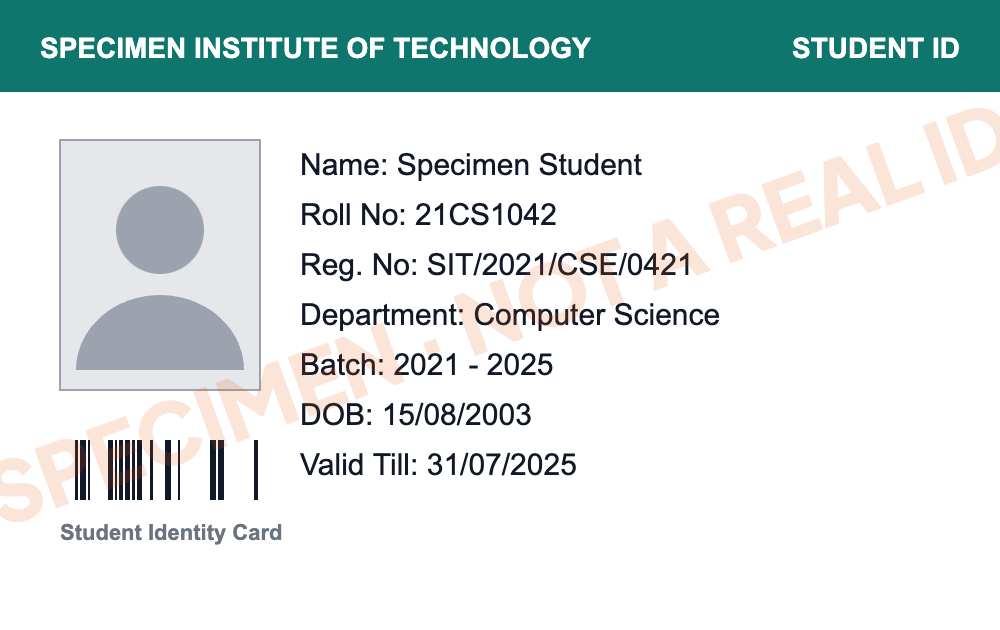
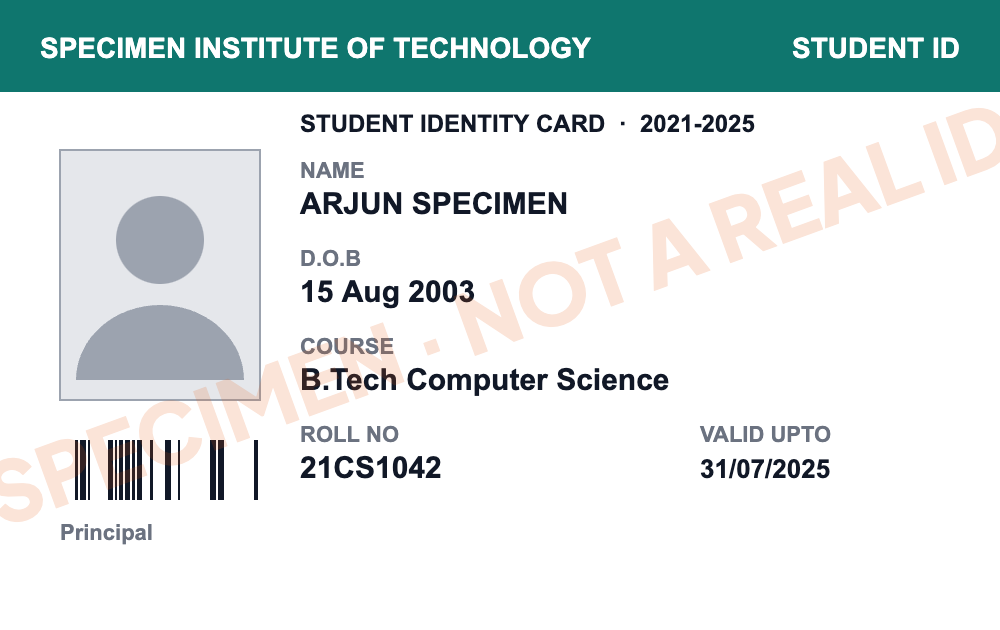
fix: student ID (and other card) detection on real cards — name, date of birth, photo, roll, course
Real student IDs print labels above values under an institution header, use
dates like "15 Aug 2003", and carry a portrait with no label. The classifier
now handles that:
- dates with month names count as dates of birth; validity/issue dates whose
  label is on the line above are never taken as DOB;
- institution/document boilerplate is never a person's name; a name printed
  without a label is taken from the letters-only line above the DOB;
- label-above-value lookup anchors on the label's own column, skips speckle
  and punctuation-only lines, and stops at the first wide gap; short or
  low-confidence same-line specks ("NAME Coe") defer to the line below;
  label words in a neighbouring column ("VALID UPTO") are not values;
- fused OCR labels ("UROLLNO") still match the roll-number label;
- a portrait region is inferred for PAN, college and generic ID cards from the
  empty column left of the text block; the manual photo/QR buttons are
  available for all card types.

The college specimen now mirrors a real card (labels above values, month-name
DOB, portrait, validity date). Verified for every document type under the
Surya sidecar and under in-browser Tesseract.

diff --git a/src/layers/layer2_ocr/ocrEngine.ts b/src/layers/layer2_ocr/ocrEngine.ts
@@ -801,8 +801,9 @@ function matchLabelValue(line: ExtractedSpatialToken[], labelRe: RegExp): LineMa
   if (!valueToks.length) return null;
   const text = valueToks.map((t) => t.text).join(' ').replace(/^[:\-–—\s.]+/, '').trim();
   if (!text) return null;
-  // "Father's Name" leaves just "Name": that is the rest of the label, not a value.
-  if (/^(?:name|no\.?|number|id|code|date|of)$/i.test(text)) return null;
+  // "Father's Name" leaves just "Name", "ROLL NO VALID UPTO" leaves "VALID UPTO":
+  // label words in the next column are not values.
+  if (RE_LABEL_WORDS.test(text)) return null;
   return { text, tokens: valueToks };
 }
 
@@ -853,6 +854,8 @@ function clusterByGap(line: ExtractedSpatialToken[]): ExtractedSpatialToken[][] 
 const RE_BIRTH_LINE = /\b(?:dob|d\.o\.b|date of birth|year of birth|yob|birth)\b/i;
 const RE_DEVANAGARI = /[\u0900-\u097F]/;
 const RE_AADHAAR_BOILERPLATE = /government of india|unique identification|aadhaar|\bindia\b|proof of identity|citizenship|authority|\bmera\b/i;
+// Institution / document boilerplate that is never a person's name or a field value.
+const RE_CARD_BOILERPLATE = /\b(?:college|institute|institution|university|school|academy|polytechnic|campus|identity\s*card|id\s*card|student\s*(?:id|card)|library|department of|govt|government|income tax|permanent account|signature|valid|issued?)\b/i;
 const RE_NON_BIRTH_DATE = /\b(?:issued?|issue date|date of issue|enrol|enrolment|print|download|valid|expiry|generated|updated)\b|\u091c\u093e\u0930\u0940/i;
 const RE_GENDER_LINE = /\b(?:MALE|FEMALE|TRANSGENDER|Male|Female|Transgender)\b|\u092a\u0941\u0930\u0941\u0937|\u092e\u0939\u093f\u0932\u093e/;
 const RE_GUARDIAN_LINE = /\b(?:S\/O|D\/O|W\/O|C\/O|son of|daughter of|wife of|care of)\b/i;
@@ -885,6 +888,9 @@ function matchPanTolerant(line: ExtractedSpatialToken[]): LineMatch[] {
   return matchInLine(line, RE_PAN_LOOSE).filter((m) => panLike(m.text));
 }
 
+const RE_LABEL_WORDS =
+  /^(?:name|no\.?|number|id|code|date|of|valid(?:\s*(?:upto|up\s*to|till|thru|through))?|issued?(?:\s*on)?|expiry|exp\.?|dob|d\.?o\.?b\.?|date\s*of\s*birth|roll\s*no\.?|course|class|branch|dept\.?|reg\.?\s*no\.?|signature)$/i;
+
 // Card layouts print the label on one line and the value on the next
 // ("Name" / "SPECIMEN PERSON"). When a line is only the label, take the
 // column-aligned cluster of the next line on the same page as the value.
@@ -895,8 +901,15 @@ function valueBelowLabel(
   claimed: Set<string>
 ): LineMatch | null {
   const line = lines[li];
-  const next = lines[li + 1];
-  if (!next || next[0].page !== line[0].page) return null;
+  // The value line is the next line with real content; OCR punctuation specks
+  // ("..", "=") often form their own tiny line between a label and its value.
+  let next: ExtractedSpatialToken[] | undefined;
+  for (let j = li + 1; j < Math.min(lines.length, li + 4); j++) {
+    const cand = lines[j];
+    if (cand[0].page !== line[0].page) break;
+    if (cand.some((t) => /[A-Za-z0-9]/.test(t.text))) { next = cand; break; }
+  }
+  if (!next) return null;
   const lineText = line.map((t) => t.text).join(' ');
   const re = new RegExp(labelRe.source, labelRe.flags.replace('g', ''));
   const m = re.exec(lineText);
@@ -904,16 +917,28 @@ function valueBelowLabel(
   const restRaw = lineText.slice(m.index + m[0].length);
   const rest = restRaw.replace(/[^A-Za-z0-9]/g, '');
   const before = lineText.slice(0, m.index).replace(/[^A-Za-z0-9]/g, '');
-  // More than a label: digits, or more than two extra words ("Father's Name" is fine).
-  if (/\d/.test(restRaw) || rest.length > 16 || restRaw.trim().split(/\s+/).filter(Boolean).length > 2 || before.length > 12) return null;
-  const x0 = Math.min(...line.map((t) => t.x));
+  // More than a label: digits, or more than two extra real words ("Father's Name" is fine;
+  // OCR punctuation such as "=. =, .." is not a word).
+  const restWords = restRaw.trim().split(/\s+/).filter((w) => /[A-Za-z0-9]/.test(w)).length;
+  if (/\d/.test(restRaw) || rest.length > 16 || restWords > 2 || before.length > 12) return null;
+  // Anchor the column on the label's own tokens, not on speckle elsewhere in the row.
+  const labelToks = matchInLine(line, labelRe)[0]?.tokens ?? line;
+  const x0 = Math.min(...labelToks.map((t) => t.x));
   const y1 = Math.max(...line.map((t) => t.y + t.height));
   const h = Math.max(...line.map((t) => t.height));
   const nextY0 = Math.min(...next.map((t) => t.y));
   if (nextY0 - y1 > h * 2.5) return null;
-  const cluster = clusterByGap(next).find((c) => Math.abs(Math.min(...c.map((t) => t.x)) - x0) <= h * 3);
-  if (!cluster) return null;
-  const toks = cluster.filter((t) => !claimed.has(t.id) && t.text.replace(/[:\-–—.\s]/g, '').length > 0);
+  // The value starts at (or just right of) the label's column and runs until the
+  // first wide gap; speckle or other columns to the left are ignored.
+  const right = [...next].filter((t) => t.x >= x0 - h * 2).sort((a, b) => a.x - b.x);
+  const cluster: ExtractedSpatialToken[] = [];
+  for (const t of right) {
+    const prev = cluster[cluster.length - 1];
+    if (prev && t.x - (prev.x + prev.width) > Math.max(prev.height, t.height, 8) * 2.5) break;
+    cluster.push(t);
+  }
+  if (!cluster.length || cluster[0].x - x0 > h * 6) return null;
+  const toks = cluster.filter((t) => !claimed.has(t.id) && t.text.replace(/[:\-–—.\s=|~,]/g, '').length > 0);
   if (!toks.length) return null;
   const text = toks.map((t) => t.text).join(' ').trim();
   if (!text || re.test(text)) return null; // the next line is another label
@@ -939,21 +964,30 @@ export function classifyForScenario(
   const ageField = fields.find((f) => f.detect.kind === 'age_from_dob');
   const nameAboveField = fields.find((f) => f.detect.kind === 'name_above_dob');
   const photoField = fields.find((f) => f.detect.kind === 'aadhaar_photo_layout');
+  const cardPhotoField = fields.find((f) => f.detect.kind === 'card_photo_layout');
   const otherFields = fields.filter(
-    (f) => !['currency', 'age_from_dob', 'name_above_dob', 'aadhaar_photo_layout'].includes(f.detect.kind)
+    (f) => !['currency', 'age_from_dob', 'name_above_dob', 'aadhaar_photo_layout', 'card_photo_layout'].includes(f.detect.kind)
   );
+  let patternDobLineIdx = -1;
 
   // Pattern + label-anchored fields (identifiers, names, dates, addresses...).
   for (const field of otherFields) {
     for (const line of lines) {
       if (field.detect.kind === 'pattern') {
         // A "date of birth" field must not claim issue / validity / print dates.
-        if (field.key === 'dob' && RE_NON_BIRTH_DATE.test(line.map((t) => t.text).join(' '))) continue;
+        if (field.key === 'dob') {
+          const here = line.map((t) => t.text).join(' ');
+          const prev = lines[lines.indexOf(line) - 1];
+          const above = prev && prev[0].page === line[0].page ? prev.map((t) => t.text).join(' ') : '';
+          // "VALID UPTO" / "ISSUED" on this line, or as a label on the line above (card layouts).
+          if (RE_NON_BIRTH_DATE.test(here) || (RE_NON_BIRTH_DATE.test(above) && !RE_BIRTH_LINE.test(above) && !RE_BIRTH_LINE.test(here))) continue;
+        }
         const exact = matchInLine(line, field.detect.re);
         const matches = field.key === 'pan' && exact.length === 0 ? matchPanTolerant(line) : exact;
         for (const mt of matches) {
           if (isClaimed(mt.tokens)) continue;
           claim(mt.tokens);
+          if (field.key === 'dob' && patternDobLineIdx < 0) patternDobLineIdx = lines.indexOf(line);
           targets.push({
             id: `field_${field.key}_${counter++}`,
             label: field.label,
@@ -973,7 +1007,12 @@ export function classifyForScenario(
         let mv = matchLabelValue(line, field.detect.re);
         // A one- or two-character same-line "value" is speckle next to the label
         // ("Name Lo"); the real value is on the line below on card layouts.
-        if (!mv || mv.text.replace(/[^A-Za-z0-9]/g, '').length <= 2) mv = valueBelowLabel(lines, li, field.detect.re, claimed) ?? (mv && mv.text.replace(/[^A-Za-z0-9]/g, '').length > 2 ? mv : null);
+        // Short or low-confidence same-line "values" are speckle next to the label
+        // ("Name Lo", "NAME Coe"); on card layouts the real value is the line below.
+        const weak = !!mv && (mv.text.replace(/[^A-Za-z0-9]/g, '').length <= 3 || tokenConfidence(mv.tokens) < 45);
+        if (!mv || weak) mv = valueBelowLabel(lines, li, field.detect.re, claimed) ?? (mv && !weak ? mv : mv && mv.text.replace(/[^A-Za-z0-9]/g, '').length > 3 ? mv : null);
+        // A person-name field never takes institution/document boilerplate as its value.
+        if (mv && ['name', 'father', 'guardian'].includes(field.key) && RE_CARD_BOILERPLATE.test(mv.text)) mv = null;
         if (mv && !isClaimed(mv.tokens)) {
           claim(mv.tokens);
           targets.push({
@@ -1044,13 +1083,14 @@ export function classifyForScenario(
   // birth-labelled line, else the gender line (never depends on a correct DOB).
   const genderLineIdx = lines.findIndex((l) => RE_GENDER_LINE.test(l.map((t) => t.text).join(' ')));
   const birthLabelIdx = lines.findIndex((l) => RE_BIRTH_LINE.test(l.map((t) => t.text).join(' ')));
-  const anchorIdx = dobLineIdx >= 0 ? dobLineIdx : birthLabelIdx >= 0 ? birthLabelIdx : genderLineIdx;
+  const anchorIdx = dobLineIdx >= 0 ? dobLineIdx : patternDobLineIdx >= 0 ? patternDobLineIdx : birthLabelIdx >= 0 ? birthLabelIdx : genderLineIdx;
+  const nameAlreadyFound = targets.some((t) => t.fieldKey === 'name');
 
   // Name: on Aadhaar the (Latin-script) name sits directly above the DOB line,
   // left-aligned in the same column. Require column alignment + real letters so
   // OCR speckle elsewhere on the card can never be mistaken for a name.
   let nameLineIdx = -1;
-  if (nameAboveField && anchorIdx > 0) {
+  if (nameAboveField && anchorIdx > 0 && !nameAlreadyFound) {
     const anchorLine = lines[anchorIdx];
     const dobX0 = Math.min(...anchorLine.map((t) => t.x));
     const dobH = Math.max(...anchorLine.map((t) => t.height));
@@ -1058,8 +1098,9 @@ export function classifyForScenario(
     for (let li = anchorIdx - 1; li >= Math.max(0, anchorIdx - 4); li--) {
       const line = lines[li];
       const lineText = line.map((t) => t.text).join(' ').trim();
-      if (!lineText || RE_DEVANAGARI.test(lineText) || RE_AADHAAR_BOILERPLATE.test(lineText)) continue;
+      if (!lineText || RE_DEVANAGARI.test(lineText) || RE_AADHAAR_BOILERPLATE.test(lineText) || RE_CARD_BOILERPLATE.test(lineText)) continue;
       if (RE_GUARDIAN_LINE.test(lineText)) continue; // "S/O …" is the guardian, not the holder
+      if (/\b(?:name|d\.?o\.?b|birth|roll|course|class|branch|reg)\b/i.test(lineText) && lineText.replace(/[^A-Za-z]/g, '').length <= 12) continue; // a bare label
       const letters = lineText.replace(/[^A-Za-z]/g, '');
       if (letters.length < 3 || letters.length / lineText.replace(/\s/g, '').length < 0.8) continue;
       // Only the cluster that shares the DOB column is the name; anything to the
@@ -1125,6 +1166,45 @@ export function classifyForScenario(
           source: 'OCR_AUTO',
           fieldKey: photoField.key,
         });
+      }
+    }
+  }
+
+  // Generic ID cards: the portrait sits in the empty column left of the text
+  // block. Only inferred when the text block starts well inside the page.
+  if (cardPhotoField && !targets.some((t) => t.fieldKey === 'photo')) {
+    const pageTargets = targets.filter((t) => t.page === (targets[0]?.page ?? 1) && t.action !== 'DETECT_ONLY');
+    if (pageTargets.length >= 2) {
+      const pageW = Math.max(...tokens.map((t) => t.x + t.width));
+      const pageH = Math.max(...tokens.map((t) => t.y + t.height));
+      const colX0 = Math.min(...pageTargets.map((t) => t.x));
+      const top = Math.min(...pageTargets.map((t) => t.y));
+      const bottom = Math.max(...pageTargets.map((t) => t.y + t.height));
+      const lineH = Math.max(12, Math.min(...pageTargets.map((t) => t.height)));
+      const leftTokens = tokens.filter(
+        (t) => t.page === pageTargets[0].page && t.x + t.width < colX0 - lineH && t.y > top - lineH * 2 && t.y < top + (bottom - top) * 0.6 && t.text.replace(/[^A-Za-z]/g, '').length >= 3
+      );
+      if (colX0 > pageW * 0.22 && leftTokens.length <= 2) {
+        const x0 = Math.max(0, Math.round(lineH * 0.5));
+        const x1 = Math.round(colX0 - lineH * 0.8);
+        const height = Math.min(bottom - top + lineH * 2, pageH - top);
+        const width = x1 - x0;
+        if (width >= lineH * 2.5 && height >= lineH * 3) {
+          targets.push({
+            id: `field_${cardPhotoField.key}_${counter++}`,
+            label: cardPhotoField.label,
+            classification: cardPhotoField.classification,
+            extractedValue: '[image region · inferred from card layout]',
+            x: x0,
+            y: Math.max(0, Math.round(top - lineH)),
+            width: Math.round(Math.min(width, height * 0.9)),
+            height: Math.round(height),
+            page: pageTargets[0].page,
+            action: cardPhotoField.action,
+            source: 'OCR_AUTO',
+            fieldKey: cardPhotoField.key,
+          });
+        }
       }
     }
   }

diff --git a/src/core/scenarios.ts b/src/core/scenarios.ts
@@ -38,7 +38,9 @@ export type FieldDetector =
   // The Latin-script name line directly above the DOB line (Aadhaar card layout).
   | { kind: 'name_above_dob' }
   // Aadhaar portrait region inferred from the demographic-column geometry.
-  | { kind: 'aadhaar_photo_layout' };
+  | { kind: 'aadhaar_photo_layout' }
+  // Generic ID-card portrait: the empty column left of the text block.
+  | { kind: 'card_photo_layout' };
 
 export interface ScenarioField {
   key: string;
@@ -84,6 +86,9 @@ export const RE_PAN = /\b[A-Z]{5}\d{4}[A-Z]\b/;                      // ABCDE123
 export const RE_IFSC = /\b[A-Z]{4}0[A-Z0-9]{6}\b/;                   // HDFC0001234
 export const RE_ACCOUNT = /\b\d{9,18}\b/;                            // bank account no.
 export const RE_DATE = /\b\d{1,2}[\/\-.]\d{1,2}[\/\-.]\d{2,4}\b/;    // 01/02/1990
+// Dates as printed on cards: 01/02/1990, 1-2-1990, 15 Aug 2003, 15-Aug-2003, August 15, 2003
+export const RE_DATE_ANY =
+  /\b\d{1,2}[\/\-.]\d{1,2}[\/\-.]\d{2,4}\b|\b\d{1,2}(?:st|nd|rd|th)?[\s\-.,]+(?:jan|feb|mar|apr|may|jun|jul|aug|sep|sept|oct|nov|dec)[a-z]*[\s\-.,]+\d{2,4}\b|\b(?:jan|feb|mar|apr|may|jun|jul|aug|sep|sept|oct|nov|dec)[a-z]*[\s\-.,]+\d{1,2}(?:st|nd|rd|th)?[\s\-.,]+\d{4}\b/i;
 export const RE_YEAR = /\b(?:19|20)\d{2}\b/;
 export const RE_EMAIL = /\b[A-Za-z0-9._%+-]+@[A-Za-z0-9.-]+\.[A-Za-z]{2,}\b/;
 export const RE_PHONE_IN = /\b(?:\+91[\-\s]?)?[6-9]\d{9}\b/;         // Indian mobile
@@ -97,7 +102,8 @@ export const RE_CURRENCY =
 const L_NAME = /\bname\b/i;
 const L_FATHER = /\bfather'?s?\b/i;
 const L_ADDRESS = /\baddress\b/i;
-const L_ROLL = /\b(?:roll(?:\s*(?:no|number))?|enrol?ment(?:\s*(?:no|number))?)\b/i;
+// No leading boundary: OCR often fuses the label ("UROLLNO", "ROLLNO").
+const L_ROLL = /(?:roll\s*(?:no|number)?|enrol?ment\s*(?:no|number)?)\b/i;
 const L_REG = /\b(?:reg(?:istration)?\.?\s*(?:no|number)?|registration)\b/i;
 const L_DEPT = /\b(?:dept|department|branch|programme|program|course)\b/i;
 const L_BATCH = /\b(?:batch|session|semester|academic year|year of study)\b/i;
@@ -126,7 +132,16 @@ const nameField = (): ScenarioField => ({
 });
 const dobField = (): ScenarioField => ({
   key: 'dob', label: 'Date / Year of Birth', classification: 'Date of Birth (PII)',
-  action: 'DIRECT_BURN', detect: { kind: 'pattern', re: RE_DATE }, priority: 20,
+  action: 'DIRECT_BURN', detect: { kind: 'pattern', re: RE_DATE_ANY }, priority: 20,
+});
+// Name printed without a label (common on student IDs): the letters-only line above the DOB.
+const nameNearDobField = (): ScenarioField => ({
+  key: 'name', label: 'Full Name', classification: 'Personal Name (PII)',
+  action: 'DIRECT_BURN', detect: { kind: 'name_above_dob' }, priority: 31,
+});
+const cardPhotoField = (): ScenarioField => ({
+  key: 'photo', label: 'Photo (face)', classification: 'Portrait Region (layout-inferred)',
+  action: 'DIRECT_BURN', detect: { kind: 'card_photo_layout' }, priority: 60,
 });
 const addressField = (): ScenarioField => ({
   key: 'address', label: 'Address', classification: 'Residential Address (PII)',
@@ -174,6 +189,7 @@ export const SCENARIOS: DocumentScenario[] = [
       nameField(),
       { key: 'father', label: "Father's Name", classification: 'Parent Name (PII)', action: 'DIRECT_BURN', detect: { kind: 'label', re: L_FATHER }, priority: 25 },
       dobField(),
+      cardPhotoField(),
     ],
     defaults: { requesterName: 'KYC Verification Desk', purpose: 'PAN-based identity KYC (privacy-preserving)', predicate: PREDICATE_SEAL_ONLY, thresholdValue: 0, unit: '' },
   },
@@ -186,11 +202,13 @@ export const SCENARIOS: DocumentScenario[] = [
     proofMode: 'SEAL_ONLY',
     fields: [
       { key: 'name', label: 'Student Name', classification: 'Personal Name (PII)', action: 'DIRECT_BURN', detect: { kind: 'label', re: L_NAME }, priority: 30 },
+      { ...nameNearDobField(), label: 'Student Name' },
       { key: 'roll', label: 'Roll Number', classification: 'Institutional Identifier (PII)', action: 'DIRECT_BURN', detect: { kind: 'label', re: L_ROLL }, priority: 20 },
       { key: 'registration', label: 'Registration Number', classification: 'Institutional Identifier (PII)', action: 'DIRECT_BURN', detect: { kind: 'label', re: L_REG }, priority: 21 },
       { key: 'department', label: 'Department / Branch', classification: 'Institutional Attribute', action: 'DIRECT_BURN', detect: { kind: 'label', re: L_DEPT }, priority: 32 },
       { key: 'batch', label: 'Batch / Year', classification: 'Institutional Attribute', action: 'DIRECT_BURN', detect: { kind: 'label', re: L_BATCH }, priority: 33 },
       dobField(),
+      cardPhotoField(),
     ],
     defaults: { requesterName: 'Campus Access Control', purpose: 'Student identity verification (privacy-preserving)', predicate: PREDICATE_SEAL_ONLY, thresholdValue: 0, unit: '' },
   },
@@ -270,10 +288,12 @@ export const SCENARIOS: DocumentScenario[] = [
       { key: 'aadhaar', label: 'Aadhaar Number', classification: 'Aadhaar / UIDAI Number (Sensitive PII)', action: 'DIRECT_BURN', detect: { kind: 'pattern', re: RE_AADHAAR }, priority: 6 },
       { key: 'pan', label: 'PAN', classification: 'Permanent Account Number (Sensitive PII)', action: 'DIRECT_BURN', detect: { kind: 'pattern', re: RE_PAN }, priority: 6 },
       nameField(),
+      nameNearDobField(),
       dobField(),
       addressField(),
       phoneField(),
       emailField(),
+      cardPhotoField(),
     ],
     defaults: { requesterName: 'Identity Verification Desk', purpose: 'General identity KYC (privacy-preserving)', predicate: PREDICATE_SEAL_ONLY, thresholdValue: 0, unit: '' },
   },

diff --git a/src/layers/layer1_ingest/specimens.ts b/src/layers/layer1_ingest/specimens.ts
@@ -123,23 +123,29 @@ export async function generatePanCardPng(): Promise<Uint8Array> {
   return toPng(c);
 }
 
-/** Student ID card: label/value pairs on single lines. */
+/** Student ID card as printed by most institutions: institution header,
+ *  portrait on the left, labels ABOVE values, date of birth with a month name. */
 export async function generateCollegeIdPng(): Promise<Uint8Array> {
   const { c, ctx } = newCard();
   band(ctx, 1000, '#0f766e', 'SPECIMEN INSTITUTE OF TECHNOLOGY', 'STUDENT ID');
-  photoBox(ctx, 60, 140, 200, 250);
-  const lines = [
-    'Name: Specimen Student',
-    'Roll No: 21CS1042',
-    'Reg. No: SIT/2021/CSE/0421',
-    'Department: Computer Science',
-    'Batch: 2021 - 2025',
-    'DOB: 15/08/2003',
-    'Valid Till: 31/07/2025',
+  ctx.fillStyle = '#111827';
+  ctx.font = '600 24px Arial, sans-serif';
+  ctx.fillText('STUDENT IDENTITY CARD  ·  2021-2025', 300, 132);
+  photoBox(ctx, 60, 150, 200, 250);
+  const pairs: [string, string][] = [
+    ['NAME', 'ARJUN SPECIMEN'],
+    ['D.O.B', '15 Aug 2003'],
+    ['COURSE', 'B.Tech Computer Science'],
+    ['ROLL NO', '21CS1042'],
   ];
-  lines.forEach((t, i) => row(ctx, t, 300, 175 + i * 50));
+  pairs.forEach(([k, v], i) => {
+    small(ctx, k, 300, 178 + i * 88);
+    big(ctx, v, 300, 214 + i * 88, 30);
+  });
+  small(ctx, 'VALID UPTO', 700, 442);
+  big(ctx, '31/07/2025', 700, 478, 26);
   barcode(ctx, 60, 440, 200, 60);
-  small(ctx, 'Student Identity Card', 60, 540);
+  small(ctx, 'Principal', 60, 540);
   watermark(ctx, 1000, 630);
   return toPng(c);
 }

diff --git a/src/App.tsx b/src/App.tsx
@@ -396,6 +396,11 @@ export function App() {
 
         setExtractedTokens(result.tokens);
         setDetectedFields(result.targets);
+        if (import.meta.env.DEV) {
+          const dev = ((window as unknown as { __zeroaraDev?: Record<string, unknown> }).__zeroaraDev ??= {});
+          dev.lastTokens = result.tokens;
+          dev.lastTargets = result.targets;
+        }
         if (result.targets.length > 0) {
           setSelectedFieldId(result.targets[0].id);
         }
@@ -1921,7 +1926,7 @@ export function App() {
                           ) : (
                             <StatusBadge tone={detectedFields.length > 0 ? 'ok' : 'warn'}>{detectedFields.length > 0 ? `${detectedFields.length} targets detected` : 'No targets detected'}</StatusBadge>
                           )}
-                          {scenario.id === 'aadhaar' && !ocrRunning && doc && (
+                          {['aadhaar', 'pan', 'college_id', 'generic_id'].includes(scenario.id) && !ocrRunning && doc && (
                             <div style={{ display: 'flex', gap: '6px' }}>
                               <button type="button" className="neu-pill-btn" style={{ fontSize: '0.68rem', padding: '3px 9px' }} onClick={() => addRegionTarget('photo')}>
                                 + Photo region
